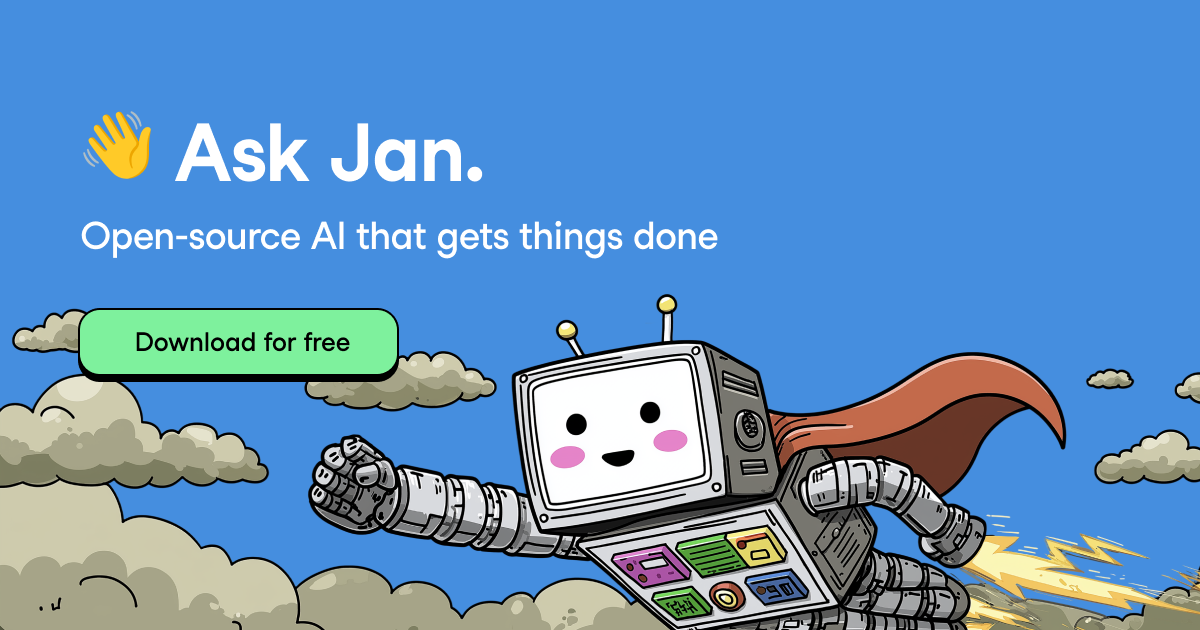
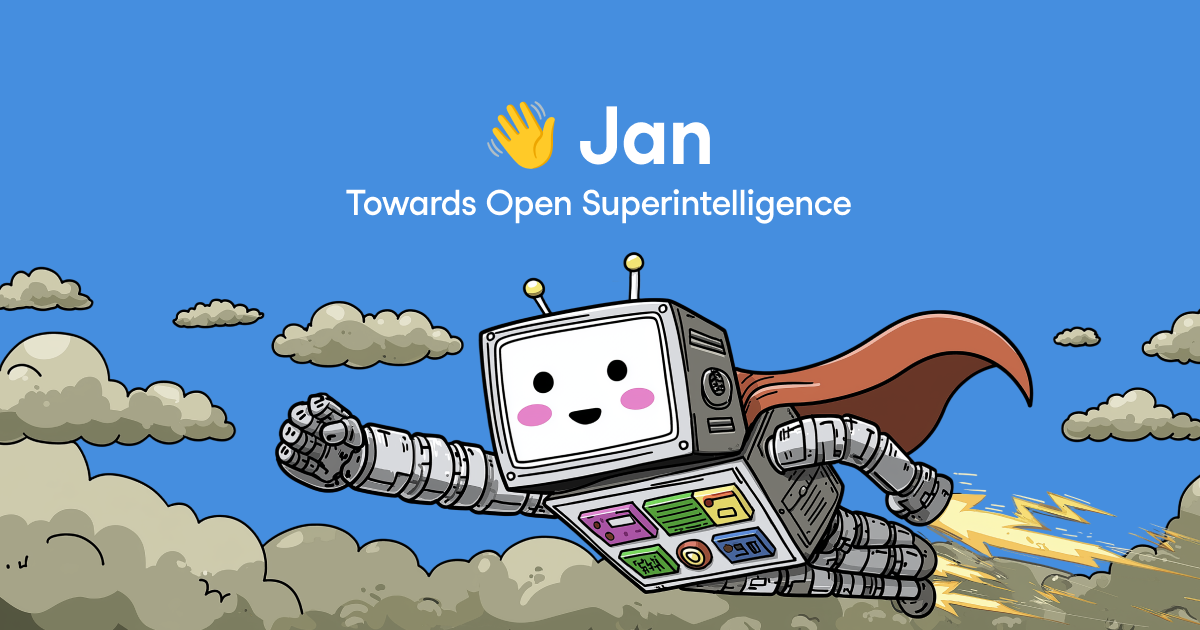
chore: update feedback #1

diff --git a/docs/src/components/Home/index.tsx b/docs/src/components/Home/index.tsx
@@ -19,10 +19,10 @@ import { DropdownButton } from '@/components/ui/dropdown-button'
 
 import { useData } from 'nextra/data'
 import { useDiscordWidget } from '@/hooks/useDiscordWidget'
-import { formatCompactNumber } from '@/utils/format'
+import { formatCompactNumber, totalDownload } from '@/utils/format'
 
 const Home = () => {
-  const { lastVersion, lastRelease, stars } = useData()
+  const { lastVersion, lastRelease, stars, release } = useData()
   const { data: discordWidget } = useDiscordWidget()
 
   useEffect(() => {
@@ -124,7 +124,7 @@ const Home = () => {
                   </h1>
                 </div>
                 <p className="px-4 lg:px-0 mt-2 text-lg lg:text-2xl font-medium leading-relaxed text-white animate-fade-in-up delay-500 -tracking-[0.6px]">
-                  The best of open-source AI in an easy-to-use product.
+                  Jan is the open-source ChatGPT replacement.
                 </p>
               </div>
               <div className="flex px-4 flex-col lg:flex-row items-center gap-4 w-full justify-center text-center animate-fade-in-up delay-600 mt-8 lg:mt-10">
@@ -244,15 +244,15 @@ const Home = () => {
           <div className="container mx-auto relative z-10">
             <div className="md:mt-10">
               <div className="lg:w-3/5 mx-auto">
-                <div className="relative text-center md:text-left lg:max-w-[512px]">
+                <div className="relative text-center md:text-left">
                   <h1
                     className="text-4xl lg:text-[50px] font-semibold -tracking-[1.3px] animate-on-scroll leading-tight"
                     data-delay="200"
                   >
-                    Open Superintelligence
+                    Towards Open Superintelligence
                   </h1>
                   <p
-                    className="-tracking-[0.6px] mt-4 text-xl text-neutral-700 animate-on-scroll"
+                    className="-tracking-[0.6px] mt-4 text-xl text-neutral-700 animate-on-scroll lg:max-w-[512px]"
                     data-delay="400"
                   >
                     Jan takes the best of open source AI and packages it into an
@@ -280,6 +280,28 @@ const Home = () => {
                         <span className="font-bold text-lg">Github</span>
                         <span className="text-sm mt-1">
                           {formatCompactNumber(stars)} stars
+                        </span>
+                      </span>
+                    </Button>
+                  </a>
+                  <a
+                    href="https://discord.com/invite/FTk2MvZwJH"
+                    target="_blank"
+                    rel="noopener noreferrer"
+                  >
+                    <Button
+                      variant="playful"
+                      className="bg-[#5765F2] py-2 border-2 hover:bg-[#5765F2] text-white h-18 pl-2 justify-start w-full md:w-60 transition-colors duration-200"
+                      size="xxl"
+                    >
+                      <span className="bg-white text-black flex items-center justify-center w-14 h-14 rounded-lg mr-2">
+                        <FaDiscord className="size-8 text-[#5765F2]" />
+                      </span>
+                      <span className="flex items-start flex-col">
+                        <span className="font-bold text-lg">Discord</span>
+                        <span className="text-sm mt-1">
+                          {formatCompactNumber(discordWidget.presence_count)}{' '}
+                          Online
                         </span>
                       </span>
                     </Button>
@@ -570,7 +592,7 @@ const Home = () => {
                     classNameButton="!shadow-none border-2"
                   />
                   <span className="text-xs font-medium text-center mt-2">
-                    +{formatCompactNumber(stars)} downloads, Free & Open source
+                    +{totalDownload(release)} downloads, Free & Open source
                   </span>
                 </div>
               </div>

diff --git a/docs/src/components/FavoriteModels.tsx b/docs/src/components/FavoriteModels.tsx
@@ -91,12 +91,12 @@ export default function FavoriteModels() {
               <p className="text-gray-700 mb-4 max-w-sm text-base -tracking-[0.4px]">
                 Choose from open models or plug in your favorite online models.
               </p>
-              <Button
+              {/* <Button
                 variant="playful-white"
                 className="!rounded-[12px] border-2 shadow-[0px_2px_0px_0px_rgba(0,0,0,1)] text-base h-[40px]"
               >
                 Explore models
-              </Button>
+              </Button> */}
             </div>
             <div className="flex-1 w-full">
               <div className="grid grid-cols-3">
@@ -143,12 +143,12 @@ export default function FavoriteModels() {
                 Connect your email, files, notes and calendar. Jan works where
                 you work.
               </p>
-              <Button
+              {/* <Button
                 variant="playful-white"
                 className="!rounded-[12px] border-2 shadow-[0px_2px_0px_0px_rgba(0,0,0,1)] text-base h-[40px]"
               >
                 Explore tools
-              </Button>
+              </Button> */}
             </div>
             <div className="flex-1 w-full">
               <div className="grid grid-cols-3">
@@ -196,12 +196,12 @@ export default function FavoriteModels() {
                 Your context carries over, so you don’t repeat yourself. Jan
                 remembers your context and preferences.
               </p>
-              <Button
+              {/* <Button
                 variant="playful-white"
                 className="!rounded-[12px] border-2 shadow-[0px_2px_0px_0px_rgba(0,0,0,1)] text-base h-[40px]"
               >
                 Learn more
-              </Button>
+              </Button> */}
             </div>
             <div className="flex-1 w-full flex justify-center mt-10 px-8 md:px-0">
               <div className="relative max-w-xs scale-[70%] md:scale-100 origin-center">

diff --git a/docs/theme.config.tsx b/docs/theme.config.tsx
@@ -106,8 +106,15 @@ const config: DocsThemeConfig = {
   },
   head: function useHead() {
     const { title, frontMatter } = useConfig()
-    const titleTemplate = (frontMatter?.title || title) + ' - ' + 'Jan'
     const { asPath } = useRouter()
+    const titleTemplate =
+      (asPath.includes('/desktop')
+        ? 'Jan Desktop'
+        : asPath.includes('/server')
+          ? 'Jan Server'
+          : 'Jan') +
+      ' - ' +
+      (frontMatter?.title || title)
 
     return (
       <Fragment>
@@ -144,7 +151,9 @@ const config: DocsThemeConfig = {
           content={
             frontMatter?.ogImage
               ? 'https://jan.ai/' + frontMatter?.ogImage
-              : 'https://jan.ai/assets/images/general/og-image.png'
+              : asPath.includes('/docs')
+                ? 'https://jan.ai/assets/images/general/og-image-docs.png'
+                : 'https://jan.ai/assets/images/general/og-image.png'
           }
         />
         <meta property="og:image:alt" content="Jan-OGImage" />

diff --git a/docs/src/components/Navbar.tsx b/docs/src/components/Navbar.tsx
@@ -13,7 +13,6 @@ const MENU_ITEMS = [
   { name: 'Changelog', href: '/changelog' },
   { name: 'Blog', href: '/blog' },
   { name: 'Handbook', href: '/handbook' },
-  { name: 'API Reference', href: '/api-reference' },
 ]
 
 const Navbar = ({ noScroll }: { noScroll?: boolean }) => {
